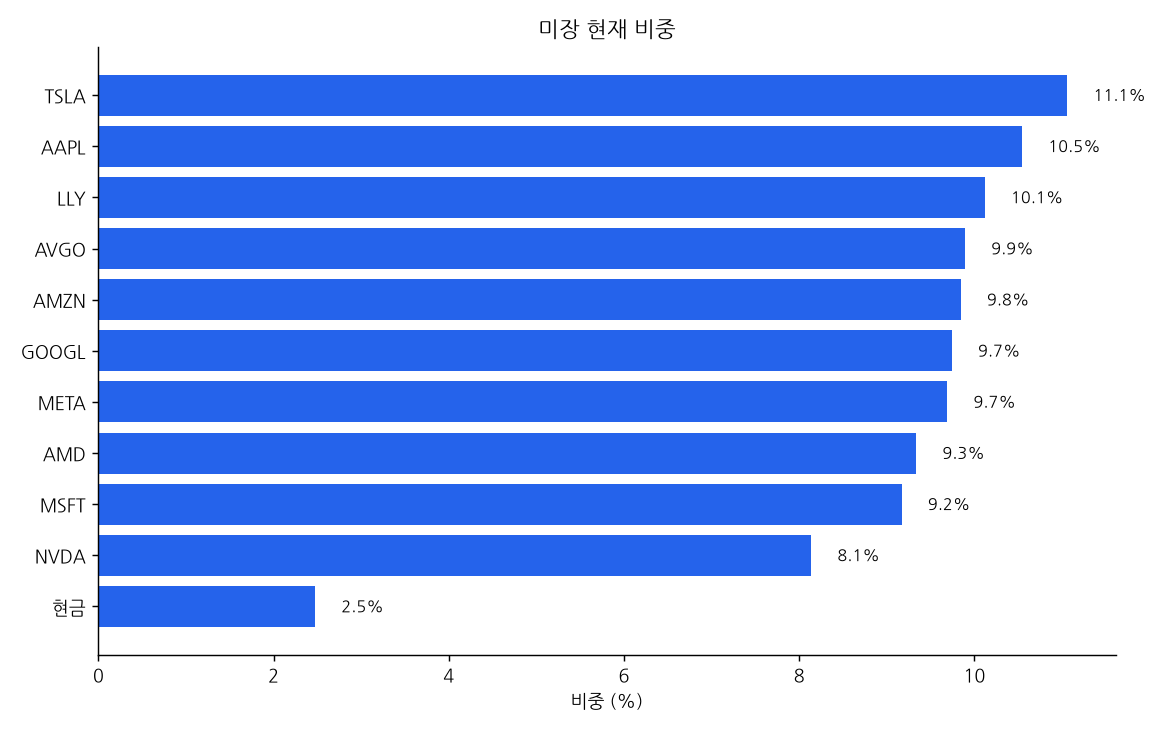
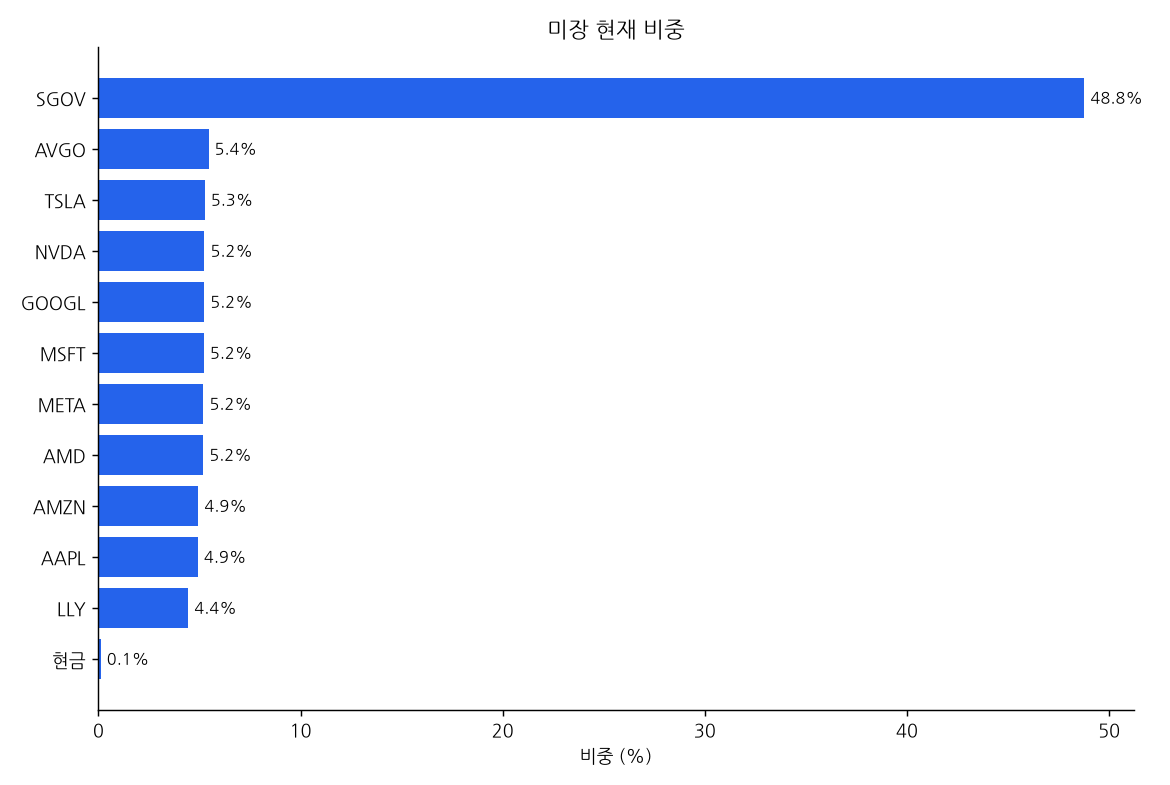
dashboard 2026-11-26 07:30

diff --git a/README.md b/README.md
@@ -1,10 +1,10 @@
 # 📈 내 자동매매 포트폴리오
 
-_마지막 갱신: 2026-11-25 16:00 (KST) · 라즈베리파이 자동 업데이트_
+_마지막 갱신: 2026-11-26 07:30 (KST) · 라즈베리파이 자동 업데이트_
 
 | 트랙 | 시작일 | 누적 수익률 | 비교 지수 | 초과 | 최근 1개월 | 국면 |
 |---|---|---|---|---|---|---|
-| 미장 | 2026-11-05 | **-2.08%** | -1.94% | -0.14% | - | BULL |
+| 미장 | 2026-11-05 | **-3.04%** | -2.22% | -0.82% | - | BEAR |
 | 국장 | 2026-11-06 | **-1.71%** | -7.42% | +5.71% | - | BEAR |
 
 ## 미장
@@ -13,17 +13,18 @@ _마지막 갱신: 2026-11-25 16:00 (KST) · 라즈베리파이 자동 업데이
 
 | 종목 | 비중 |
 |---|---|
-| TSLA | 11.1% |
-| AAPL | 10.5% |
-| LLY | 10.1% |
-| AVGO | 9.9% |
-| AMZN | 9.8% |
-| GOOGL | 9.7% |
-| META | 9.7% |
-| AMD | 9.3% |
-| MSFT | 9.2% |
-| NVDA | 8.1% |
-| 현금 | 2.5% |
+| SGOV | 48.8% |
+| AVGO | 5.4% |
+| TSLA | 5.3% |
+| NVDA | 5.2% |
+| GOOGL | 5.2% |
+| MSFT | 5.2% |
+| META | 5.2% |
+| AMD | 5.2% |
+| AMZN | 4.9% |
+| AAPL | 4.9% |
+| LLY | 4.4% |
+| 현금 | 0.1% |
 
 ![미장 비중](charts/us_weights.png)
 
